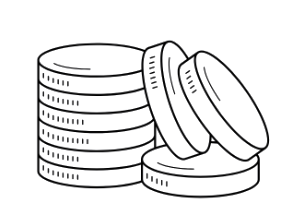
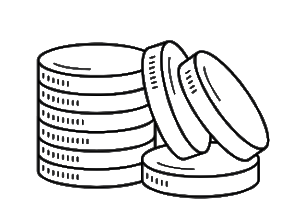
fix: monedas con fondo dorado + trazos grabados para mayor definicion
El cuerpo de las monedas era identico al fondo (~244 brillo), asi que
el PNG transparente solo mostraba los trazos oscuros. Solucion: renderizar
las monedas sobre un contenedor con el color dorado del panel (tituloCo-
lor), creando el efecto de monedas grabadas en oro. El simbolo de creditos
mantiene el enfoque transparente + filtro CSS (funciona porque es negro puro).

diff --git a/frontend/src/components/CharacterSheet.jsx b/frontend/src/components/CharacterSheet.jsx
@@ -270,19 +270,22 @@ export default function CharacterSheet({ username, isMaster, characters, onUpdat
           <div style={{ flex:1, height:'1px', background:`linear-gradient(to right,transparent,${titleColor}55)` }} />
           <span style={{ fontFamily:'Orbitron,monospace', fontSize:'7px', letterSpacing:'0.18em', color:titleColor, textShadow:titleShadow, whiteSpace:'nowrap', display:'flex', alignItems:'center', gap:'5px' }}>
             {logo && (
-              <img
-                src={logo}
-                alt=""
-                style={{
-                  width: logo === '/simbolo-reales.png' ? '22px' : '16px',
-                  height: logo === '/simbolo-reales.png' ? '18px' : '16px',
-                  objectFit: 'contain',
-                  filter: logo === '/simbolo-reales.png'
-                    ? 'sepia(1) saturate(4) brightness(0.88) contrast(1.15)'
-                    : 'invert(1) sepia(1) saturate(6) brightness(1.15)',
-                  flexShrink: 0,
-                }}
-              />
+              logo === '/simbolo-reales.png' ? (
+                /* Monedas: fondo dorado + trazos oscuros encima = efecto grabado en oro */
+                <span style={{
+                  display:'inline-block', width:'28px', height:'24px', flexShrink:0,
+                  background: titleColor, borderRadius:'3px', overflow:'hidden',
+                  boxShadow:`0 0 6px ${titleColor}88`,
+                }}>
+                  <img src={logo} alt="" style={{ width:'100%', height:'100%', objectFit:'contain', display:'block' }} />
+                </span>
+              ) : (
+                /* Símbolo créditos: negro transparente → filtro oro brillante */
+                <img src={logo} alt="" style={{
+                  width:'16px', height:'16px', objectFit:'contain', flexShrink:0,
+                  filter:'invert(1) sepia(1) saturate(6) brightness(1.15)',
+                }} />
+              )
             )}
             {title}
           </span>